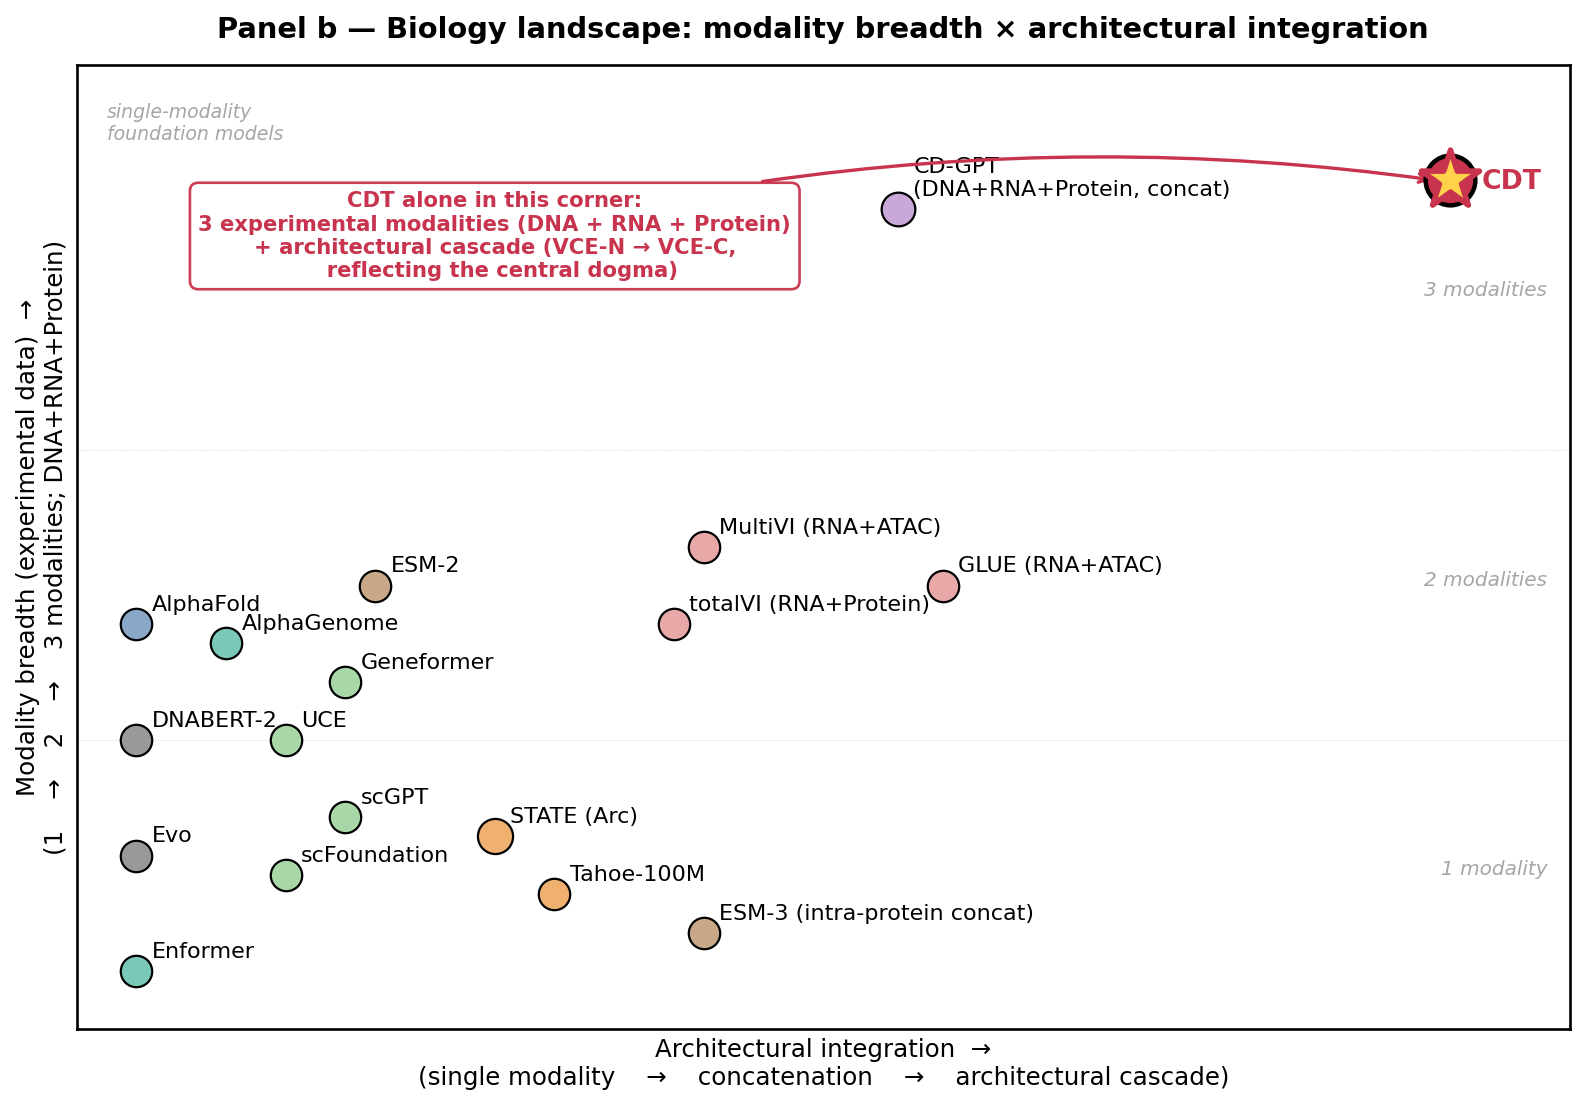
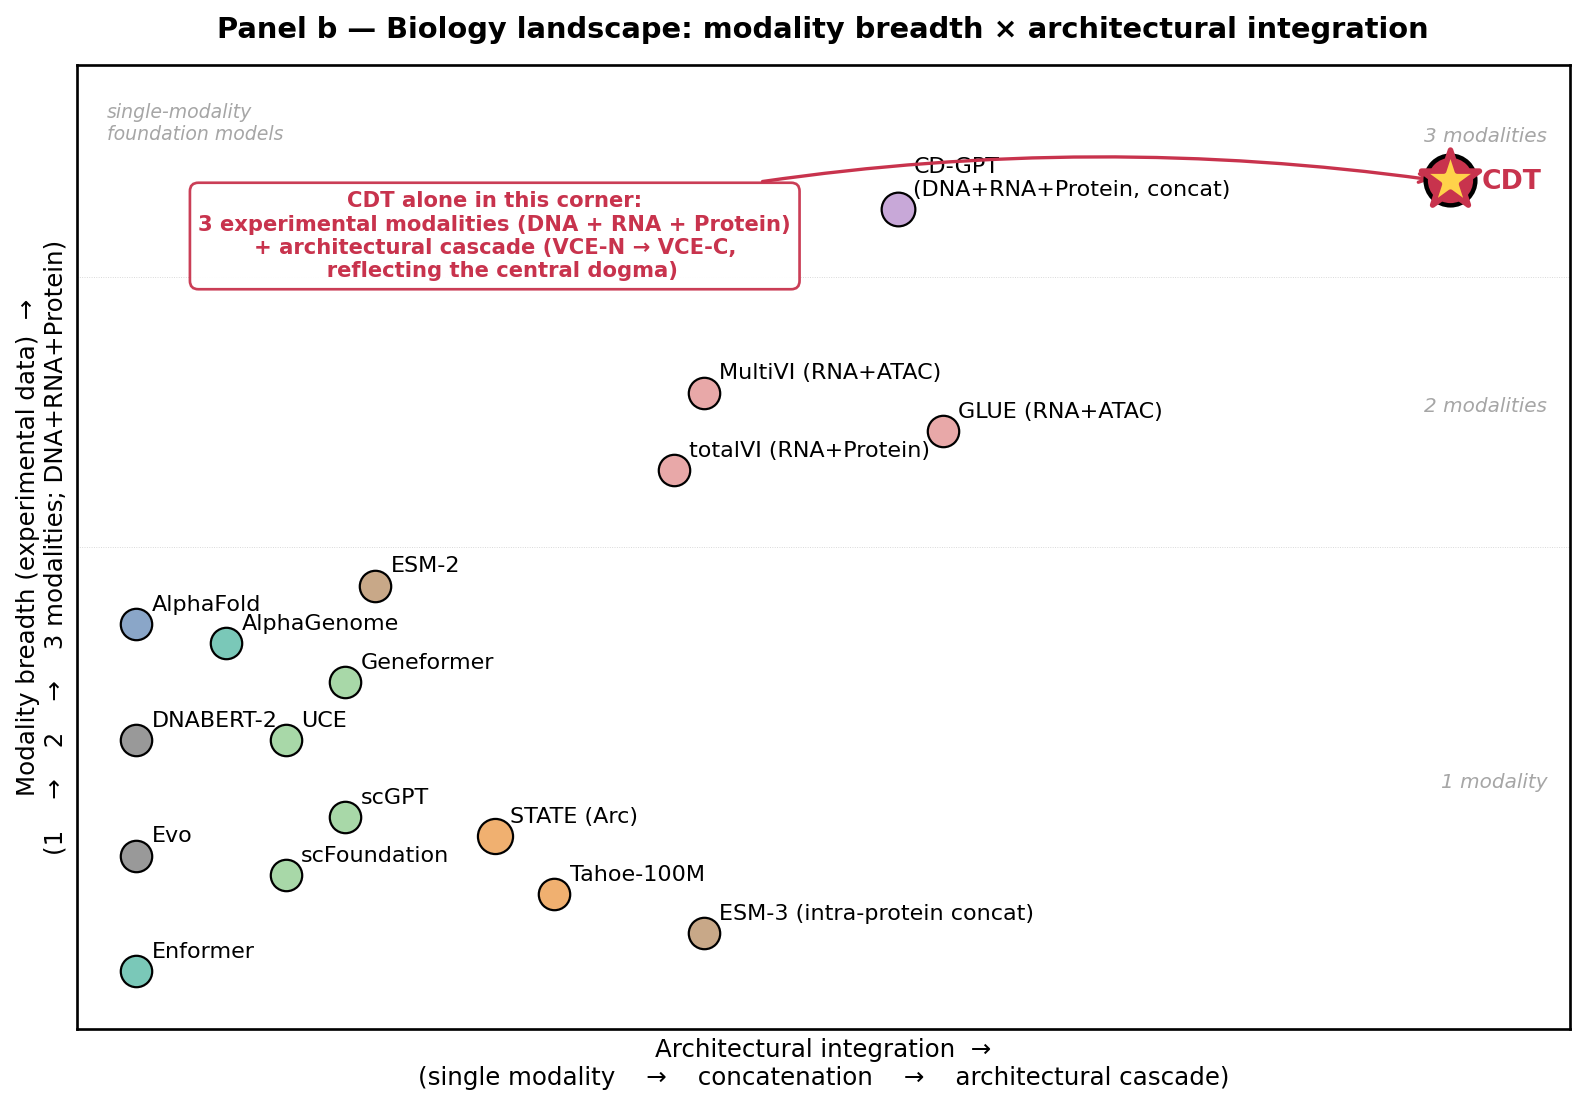
Fix panel b: realign modality tier boundaries with marker positions
Previous tier guidelines were at y=0.30/0.60, but 1-modality markers
spread up to y=0.46 (AlphaFold, ESM-2, AlphaGenome) which placed them
visually in the 2-modality band. Move tier boundaries to y=0.50/0.78
to match the actual content distribution.

Reposition the right-side tier labels:
  1 modality  : y=0.25 (was 0.16)
  2 modalities: y=0.64 (was 0.46)
  3 modalities: y=0.92 (was 0.76)

Move multi-omics markers up into new 2-modality band:
  totalVI: 0.42 → 0.58
  MultiVI: 0.50 → 0.66
  GLUE   : 0.46 → 0.62

All markers now sit clearly within their semantically correct band.

diff --git a/figures/neurips/appendix/make_landscape_figs.py b/figures/neurips/appendix/make_landscape_figs.py
@@ -129,10 +129,10 @@ models_b = [
     # Arc perturbation (orange) — slight right of green cluster
     (0.28, 0.20, "STATE (Arc)",    "#f0b070", 250,  7,  6),
     (0.32, 0.14, "Tahoe-100M",     "#f0b070", 200,  7,  6),
-    # 2-modality concat (multi-omics integration camp) — clearly within 2-modality band
-    (0.40, 0.42, "totalVI (RNA+Protein)",  "#e8a8a8", 200,  7,  6),
-    (0.42, 0.50, "MultiVI (RNA+ATAC)",      "#e8a8a8", 200,  7,  6),
-    (0.58, 0.46, "GLUE (RNA+ATAC)",         "#e8a8a8", 200,  7,  6),
+    # 2-modality concat (multi-omics integration camp) — within new 2-modality band (0.50-0.78)
+    (0.40, 0.58, "totalVI (RNA+Protein)",  "#e8a8a8", 200,  7,  6),
+    (0.42, 0.66, "MultiVI (RNA+ATAC)",      "#e8a8a8", 200,  7,  6),
+    (0.58, 0.62, "GLUE (RNA+ATAC)",         "#e8a8a8", 200,  7,  6),
     # 3-modality concat (CD-GPT)
     (0.55, 0.85, "CD-GPT\n(DNA+RNA+Protein, concat)", "#c8a8d8", 230,  7, 6),
     # CDT — top-right, alone
@@ -172,14 +172,14 @@ ax.set_ylabel("Modality breadth (experimental data)  →\n(1    →    2    → 
 ax.set_title("Panel b — Biology landscape: modality breadth × architectural integration",
              fontsize=13, fontweight="bold", pad=12)
 
-# Tier guidelines for modality count
-for ytick in [0.30, 0.60]:
+# Tier guidelines for modality count (1-mod: 0-0.50, 2-mod: 0.50-0.78, 3-mod: 0.78-1.0)
+for ytick in [0.50, 0.78]:
     ax.axhline(ytick, color="gray", linewidth=0.4, linestyle=":", alpha=0.35)
-ax.text(0.985, 0.16, "1 modality", fontsize=9, color="gray",
+ax.text(0.985, 0.25, "1 modality", fontsize=9, color="gray",
         style="italic", alpha=0.7, ha="right")
-ax.text(0.985, 0.46, "2 modalities", fontsize=9, color="gray",
+ax.text(0.985, 0.64, "2 modalities", fontsize=9, color="gray",
         style="italic", alpha=0.7, ha="right")
-ax.text(0.985, 0.76, "3 modalities", fontsize=9, color="gray",
+ax.text(0.985, 0.92, "3 modalities", fontsize=9, color="gray",
         style="italic", alpha=0.7, ha="right")
 
 ax.set_xticks([])